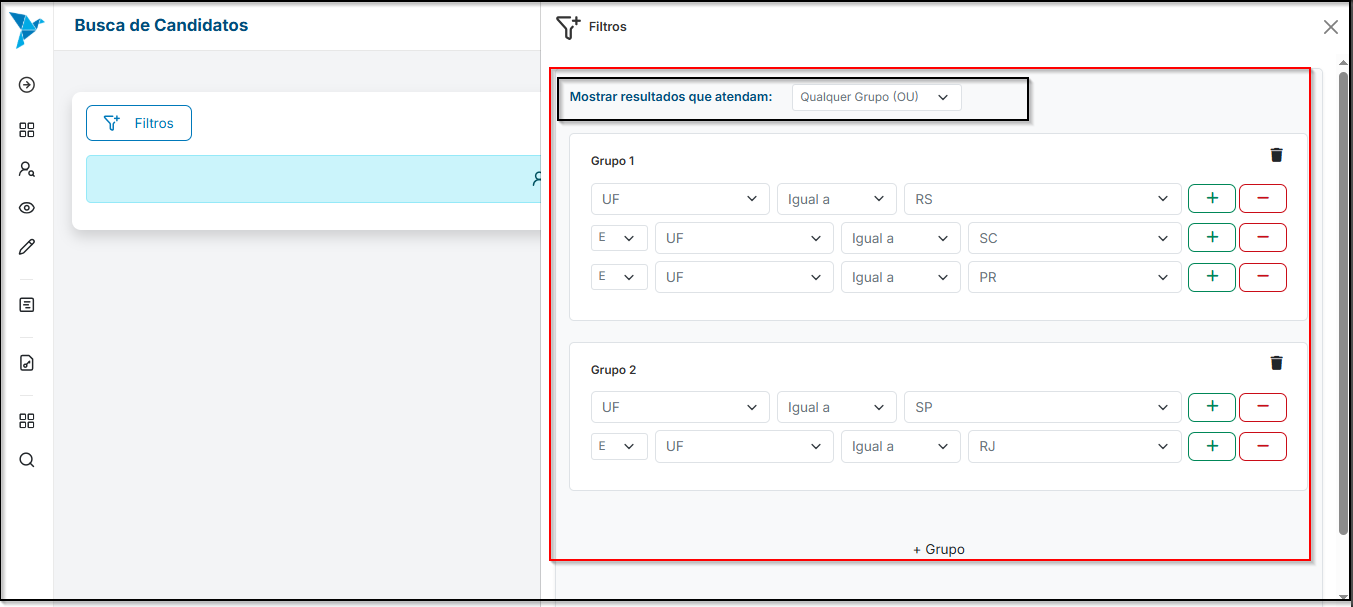
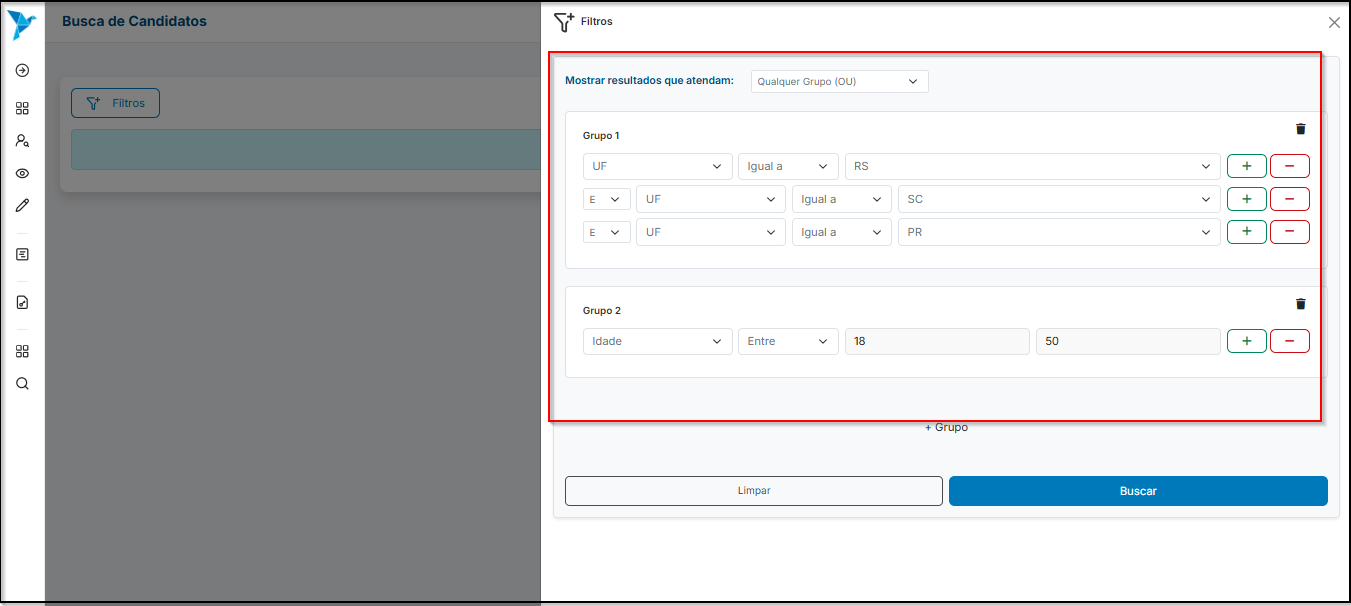
Detalhamento das condições no campo "Valor" com adição de exemplos diferentes junto aos prints

diff --git a/site/empresa/busca-candidatos/index.html b/site/empresa/busca-candidatos/index.html
@@ -975,12 +975,12 @@
 <p><strong>Defina a opção em <code>Mostrar resultados que atendam</code>.</strong></p>
 <ul>
 <li><strong>Todos os Grupos (E):</strong> o candidato precisa atender a <strong>todos</strong> os critérios definidos.<ul>
-<li>Se estiver marcado como <strong>"E"</strong> , e conter dois grupos ou mais, o resultado vai filtrar as informações se atender ambos os grupos. (Ex. Quero filtrar os estados de RS, SC, PR que estão no <strong><code>Grupo 1</code></strong>, <strong>E</strong> quero filtrar os estados SP e RJ que estão <strong><code>Grupo 2</code></strong>. Logo o filtro será entre os estados RS, SC, PR, SP e RJ).
+<li>Se estiver marcado como <strong>"E"</strong> , e conter dois grupos ou mais, o resultado vai filtrar as informações se atender ambos os grupos. (Ex. Quero filtrar os estados de RS, SC, PR que estão no <strong><code>Grupo 1</code></strong>, <strong>E</strong> quero filtrar o candidato que tenha idade entre 18 e 50 anos no <strong><code>Grupo 2</code></strong>. Logo o filtro irá mesclar os dois grupos, filtrando entre os estados RS, SC, PR e candidatos que tenham idade entre 18 e 50 anos).
 <a class="glightbox" data-type="image" data-width="auto" data-height="auto" href="../../imagens/Filtro-candidato/filtro_grupos_exemplo_if.png" data-desc-position="bottom"><img alt="Tela de busca que atendem o filtro E" src="../../imagens/Filtro-candidato/filtro_grupos_exemplo_if.png"></a></li>
 </ul>
 </li>
 <li><strong>Qualquer Grupo (OU):</strong> o candidato pode atender a <strong>um ou mais</strong> dos critérios definidos.<ul>
-<li>Se tiver marcado como <strong>"OU"</strong>, e um grupo não encontrar algum resultado ele trará o filtro do outro grupo. (Ex. Quero filtrar os estados de RS, SC, PR que estão no <strong><code>Grupo 1</code></strong> <strong>OU</strong> filtrar os estados SP e RJ no <strong><code>Grupo 2</code></strong>. O filtro irá filtrar os campos RS, SC e PR, caso não encontre nenhum candidato desse estado ele irá filtrar por SP e RJ).
+<li>Se tiver marcado como <strong>"OU"</strong>, será filtro um/ou mais grupos. (Ex. Quero filtrar os estados de RS, SC, PR que estão no <strong><code>Grupo 1</code></strong> <strong>OU</strong> filtrar o candidato que tenha idade entre 18 e 50 anos no <strong><code>Grupo 2</code></strong>. O filtro irá filtrar os campos RS, SC e PR e irá filtrar por candidatos que possuem uma idade entre 18 e 50 anos).
 <a class="glightbox" data-type="image" data-width="auto" data-height="auto" href="../../imagens/Filtro-candidato/filtro_grupos_exemplo_else.png" data-desc-position="bottom"><img alt="Tela de busca que atendem o filtro OU" src="../../imagens/Filtro-candidato/filtro_grupos_exemplo_else.png"></a></li>
 </ul>
 </li>
@@ -1103,7 +1103,7 @@
     <span class="md-icon" title="Última atualização">
       <svg xmlns="http://www.w3.org/2000/svg" viewBox="0 0 24 24"><path d="M21 13.1c-.1 0-.3.1-.4.2l-1 1 2.1 2.1 1-1c.2-.2.2-.6 0-.8l-1.3-1.3c-.1-.1-.2-.2-.4-.2m-1.9 1.8-6.1 6V23h2.1l6.1-6.1zM12.5 7v5.2l4 2.4-1 1L11 13V7zM11 21.9c-5.1-.5-9-4.8-9-9.9C2 6.5 6.5 2 12 2c5.3 0 9.6 4.1 10 9.3-.3-.1-.6-.2-1-.2s-.7.1-1 .2C19.6 7.2 16.2 4 12 4c-4.4 0-8 3.6-8 8 0 4.1 3.1 7.5 7.1 7.9l-.1.2z"></path></svg>
     </span>
-    <span class="git-revision-date-localized-plugin git-revision-date-localized-plugin-date" title="1 de outubro de 2025 12:16:50 UTC">1 de outubro de 2025</span>
+    <span class="git-revision-date-localized-plugin git-revision-date-localized-plugin-date" title="1 de outubro de 2025 17:54:35 UTC">1 de outubro de 2025</span>
   </span>
 
     

diff --git a/docs/empresa/busca-candidatos.md b/docs/empresa/busca-candidatos.md
@@ -37,7 +37,7 @@ Utilizar filtros avançados para localizar candidatos de acordo com critérios e
            - **Licença de Mecânico** (filtra pela licença de mecânico)
            - **Idade** (filtra pela idade)
            - **Formação** (filtra pela formação do candidato)
-           - **Tags**
+           - **Tags** (filtra candidatos que foram destacados pelo recrutador anteriormente)
       ![Tela de campos a serem filtrados](../imagens/Filtro-candidato/parametros1.png)     
 
 4. **Em ``Operador``, defina a condição de comparação**
@@ -51,8 +51,11 @@ Utilizar filtros avançados para localizar candidatos de acordo com critérios e
   
 5. **Em ``Valor``, insira o critério a ser buscado** 
 
-      - (ex.: Cidade = São Paulo **E** Idade entre 18 e 22).
-      ![Tela de adição de condição](../imagens/Filtro-candidato/filtro_grupo1_if.png)
+      - Com o filtro **"E"** dentro do Grupo será filtrado se o candidato **possuir as duas condições** especificadas (ex.: Cidade = São Paulo **E** Idade entre 18 e 22).
+      ![Tela de adição de condição E](../imagens/Filtro-candidato/filtro_grupo1_if.png)
+
+      - Com o filtro **"OU"** dentro do Grupo será filtrado se o candidato possuir **uma ou mais condições** especificadas, independente se ela possuem vínculo ou não (ex.: UF = SC **OU** Cidade = Porto Alegre).
+      ![Tela de adição de condição OU](../imagens/Filtro-candidato/Filtro_grupo1_else.png)
 
 6. **Caso necessário, clique em `+` para adicionar mais condições dentro do mesmo grupo.**
     - ![Tela de adição de condição](../imagens/Filtro-candidato/adicao_parametros.png)
